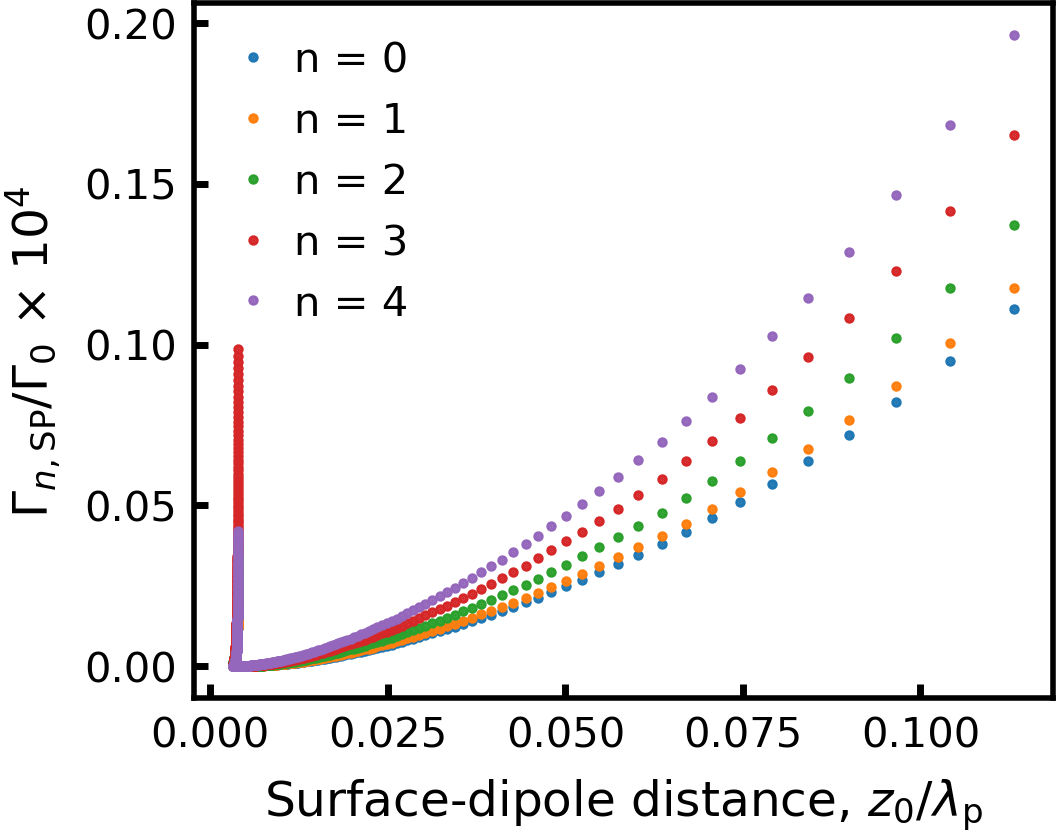
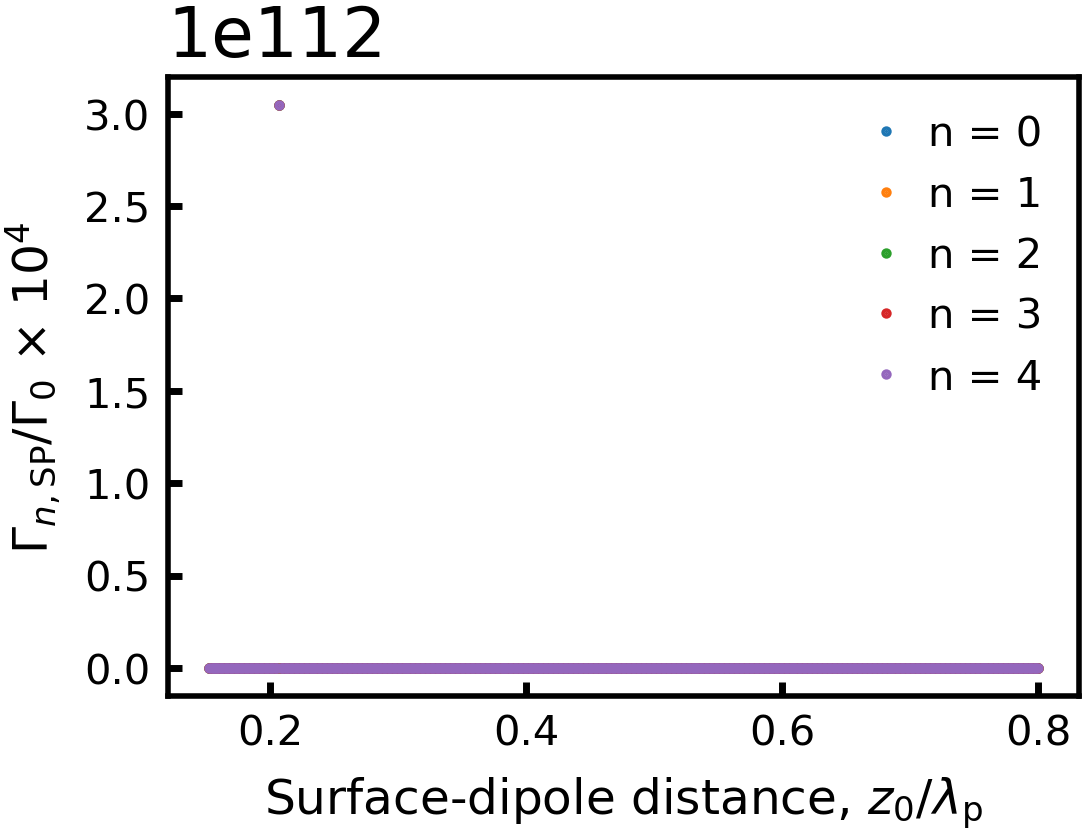
update from icfo dell

diff --git a/hBn-disks-v2/potential_field/infinite_dipoles/plot_decay_rate_theta_n_opt_zp_fix_zp.py b/hBn-disks-v2/potential_field/infinite_dipoles/plot_decay_rate_theta_n_opt_zp_fix_zp.py
@@ -74,7 +74,7 @@ tabla = np.transpose(tabla)
 [listx,listy,listz] = tabla
 
 zp_nano = listy[0]
-zp_nano = 0.4
+zp_nano = 50
 
 #zp_nano = listy[-20]
 omegac0_1 = np.max(listx)/(c*hb)
@@ -89,8 +89,8 @@ a_max = np.real(lambda_SP_2)*Nmax/(int_v + 1)
 
 a = np.mean([a_min,a_max])
 
-#a = 8000*1e-3
 a = 150*1e-3
+#a = 150*1e-3
 
 a_nm = a*1e3
 
@@ -123,7 +123,7 @@ N = 500
 lim1,lim2 = 18,-60
 lim1,lim2 = 0,-1
 listx_2 = np.linspace(listx[lim1], listx[lim2], N)
-#listx_2 = np.linspace(listx[lim1], 0.8, N)
+#listx_2 = np.linspace(listx[lim1], 0.2, N)
 #
 listy_2 = f1(listx_2)
 listz_2 = f2(listx_2)  

diff --git a/hBn-disks-v2/potential_field/infinite_dipoles/dipole_moment.py b/hBn-disks-v2/potential_field/infinite_dipoles/dipole_moment.py
@@ -284,7 +284,11 @@ def dipole_moment_anav2_for_decay_rate_resonance(omegac,epsi_silica,d_nano,int_v
     alfa_p = epsi_silica(E)*2/(omegac*d_micro*(epsi_HBN_par-1))
     kp = alfa_p*omegac
 
-
+#    d_micros = d_nano*1e-3
+#    Rp = hBn_Rp(E,epsi_silica(E),epsi_silica(E))
+#    lambda_p_v = hBn_lambda_p(E,epsi_silica(E),epsi_silica(E))*d_micros
+#    kp = 2*np.pi/lambda_p_v
+#    alfa_p = kp/omegac 
       
     arg = np.abs(b)*omegac*int_v
     K1 = special.kn(1,arg)

diff --git a/hBn-disks-v2/plot_green_self_image.py b/hBn-disks-v2/plot_green_self_image.py
@@ -55,7 +55,7 @@ aux2 = 1e12/c
 print('Definir parametros del problema')
 
 
-zp_nano = 0.05*1e3
+zp_nano = 50
 
 
 d_nano = 0.4

diff --git a/hBn-disks-v2/potential_field/potential_and_electric_field_with_dipole_moment_formula/plot_dipole_moment_res.py b/hBn-disks-v2/potential_field/potential_and_electric_field_with_dipole_moment_formula/plot_dipole_moment_res.py
@@ -59,7 +59,7 @@ int_v = 10
 #v = c/int_v
 #omega = 0.7*1e12
 
-zp = 0.05
+zp = 0
 b = -0.01
 
 
